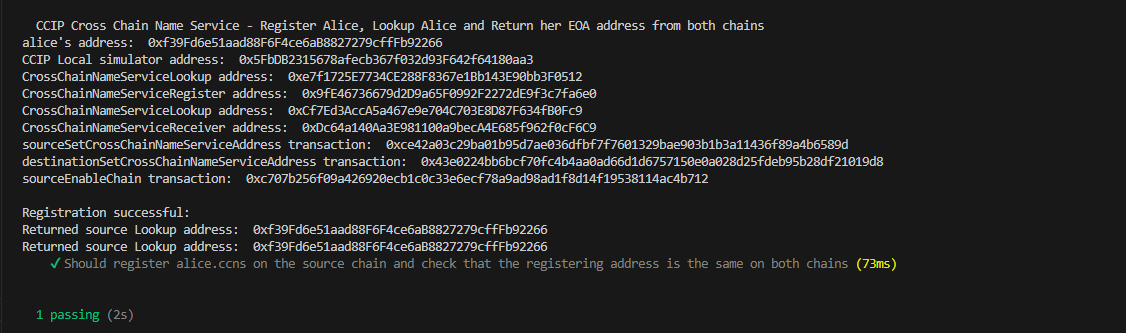
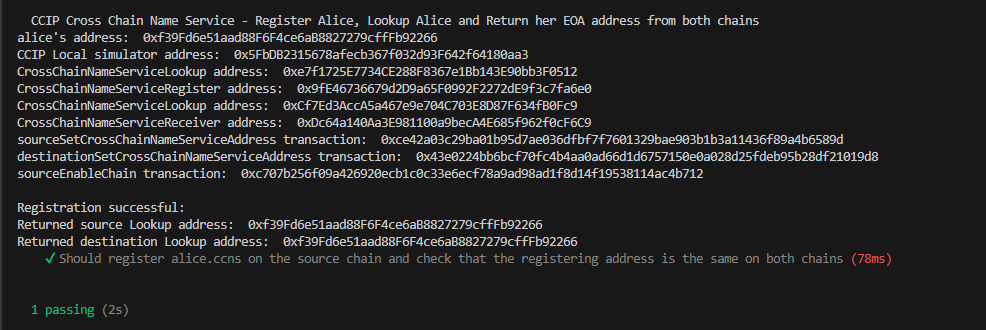
add readme

Changed region(s): [[0.0, 0.0303, 0.9128, 0.5758], [0.0, 0.6061, 0.9128, 0.8182], [0.0304, 0.9091, 0.1217, 0.9697]]

diff --git a/Homework_day_2/test/test.ts b/Homework_day_2/test/test.ts
@@ -84,7 +84,7 @@ describe("CCIP Cross Chain Name Service - Register Alice, Lookup Alice and Retur
         const sourceLookup = await sourceCrossChainNameServiceLookup.lookup("alice.ccns");
         console.log("Returned source Lookup address: ", sourceLookup);
         const destinationLookup = await destinationCrossChainNameServiceLookup.lookup("alice.ccns");
-        console.log("Returned source Lookup address: ", destinationLookup);
+        console.log("Returned destination Lookup address: ", destinationLookup);
 
         expect(sourceLookup).to.equal(await alice.getAddress());
         expect(destinationLookup).to.equal(await alice.getAddress());
